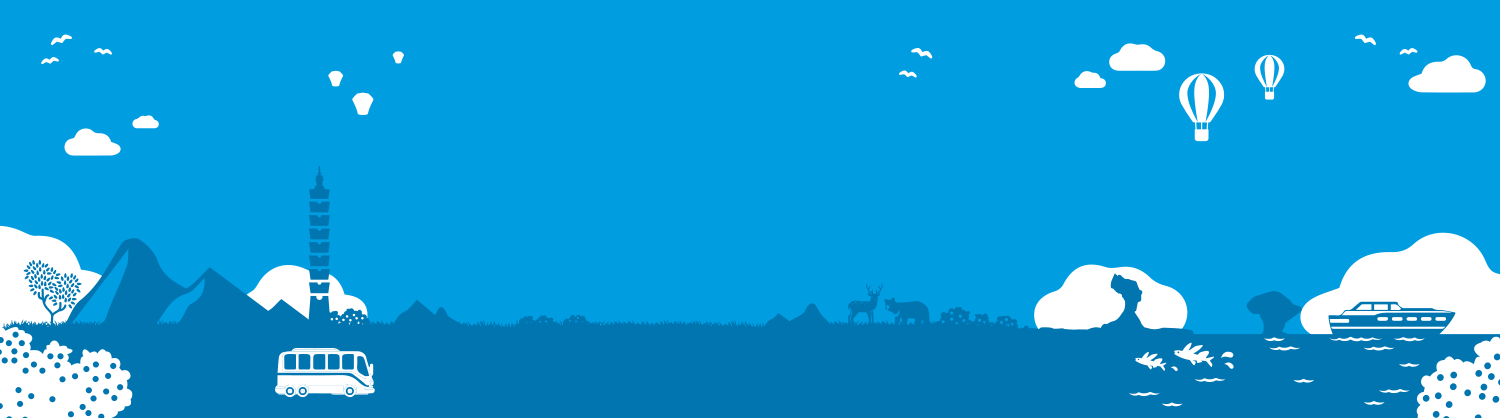
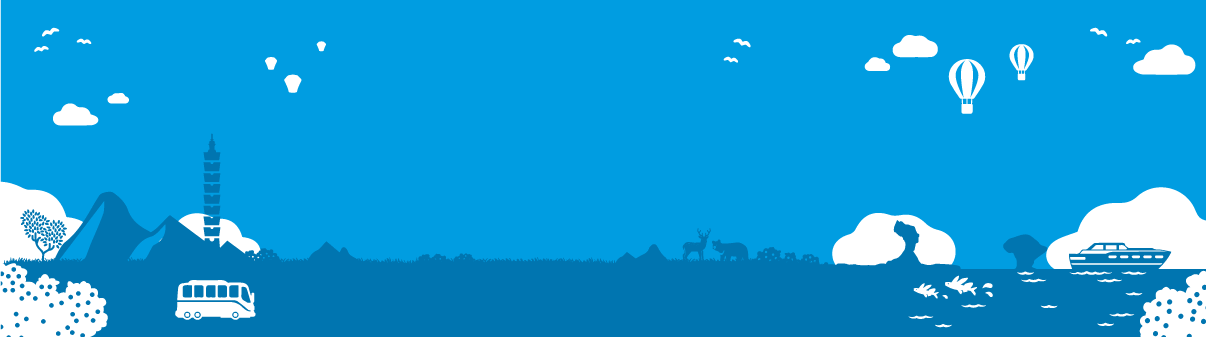
What : 1.修改網頁Foot 公司相關資訊 2.修改相關ＣＳＳ檔案
Why :
調整資訊位置

How :

Risk :

diff --git a/wwwroot/css/style.css b/wwwroot/css/style.css
@@ -2098,9 +2098,10 @@ span.red_order_notice {
 /* --Footer--------------------------------- */
 .footer_box {
     background: url(../images/footer.png) no-repeat;
+    background-position: 0% 50%;
     background-size: cover;
     font-size: 16px;
-    height: 460px;
+    height: 510px;
     position: relative;
     width: 100%;
 }
@@ -2181,7 +2182,7 @@ ul.register_info {
     margin: 0 auto;
     max-width: 702px;
     position: absolute;
-    top: 342px;
+    top: 408px;
     transform: translate3d(-50%,0,0);
     width: 100%;
 }
@@ -2189,8 +2190,8 @@ ul.register_info {
     ul.register_info li {
         float: left;
         font-size: 14px;
-        margin-bottom: 10px;
-        margin-right: 20px;
+        line-height: 20px;
+        margin: 0 20px 10px 0;
     }
 
         ul.register_info li a {
@@ -2207,7 +2208,7 @@ p.footer_copyright {
     left: 50%;
     position: absolute;
     text-align: center;
-    top: 426px;
+    top: 470px;
     transform: translate3d(-50%,0,0);
     width: 100%;
 }
